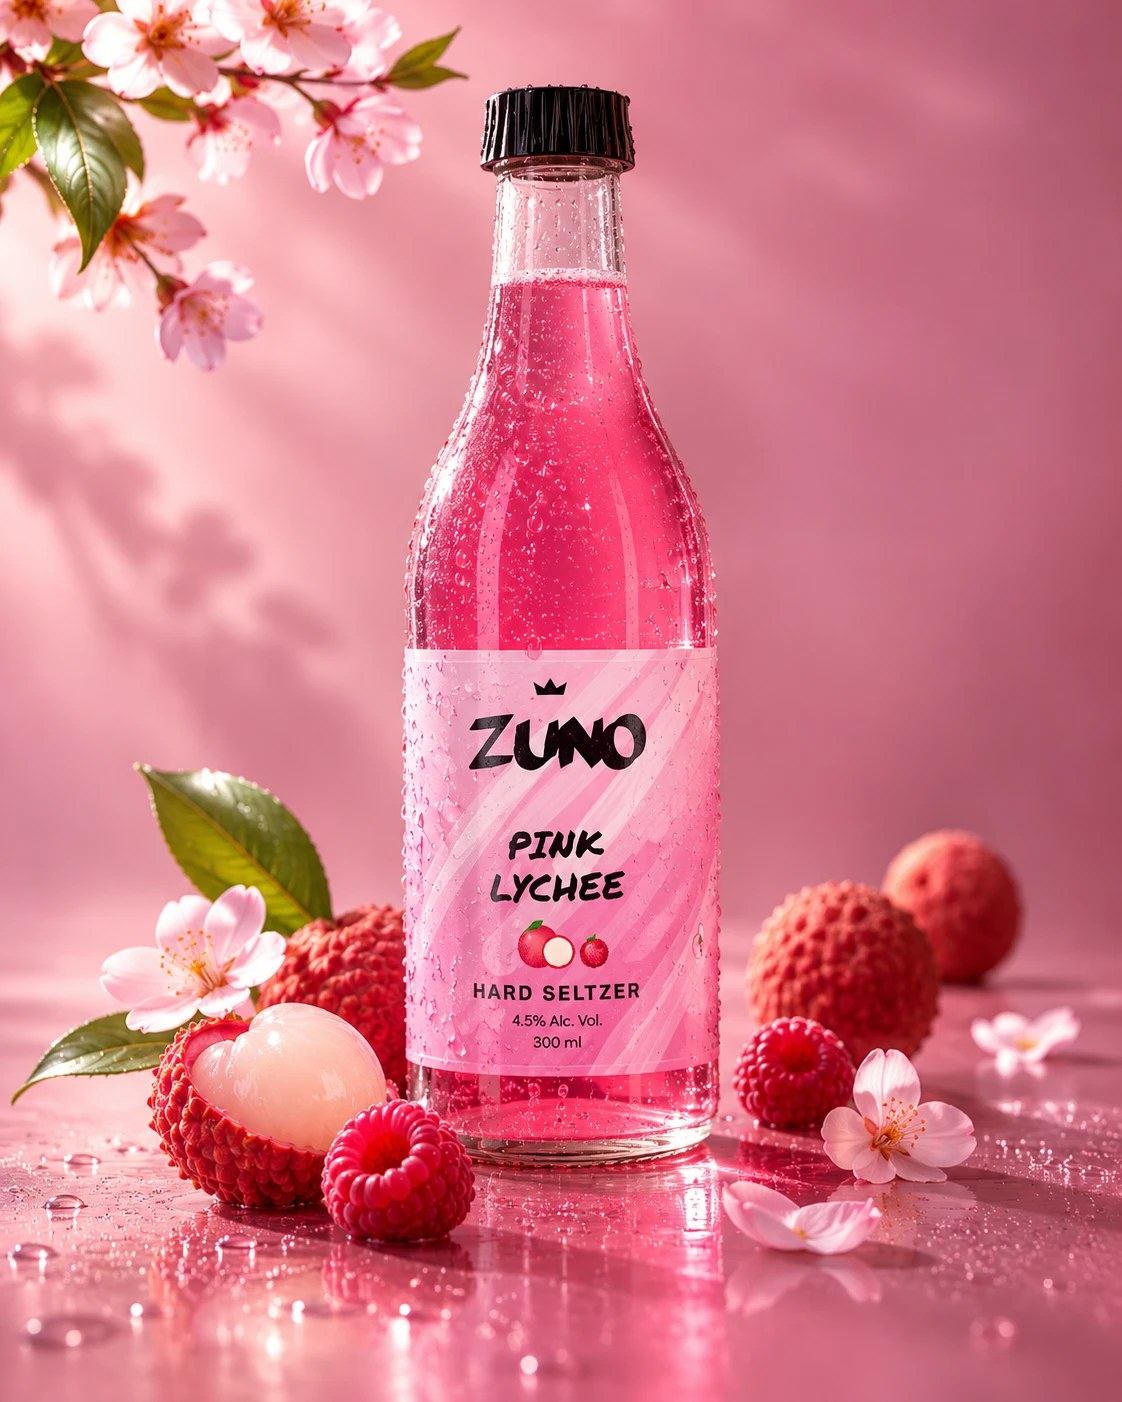
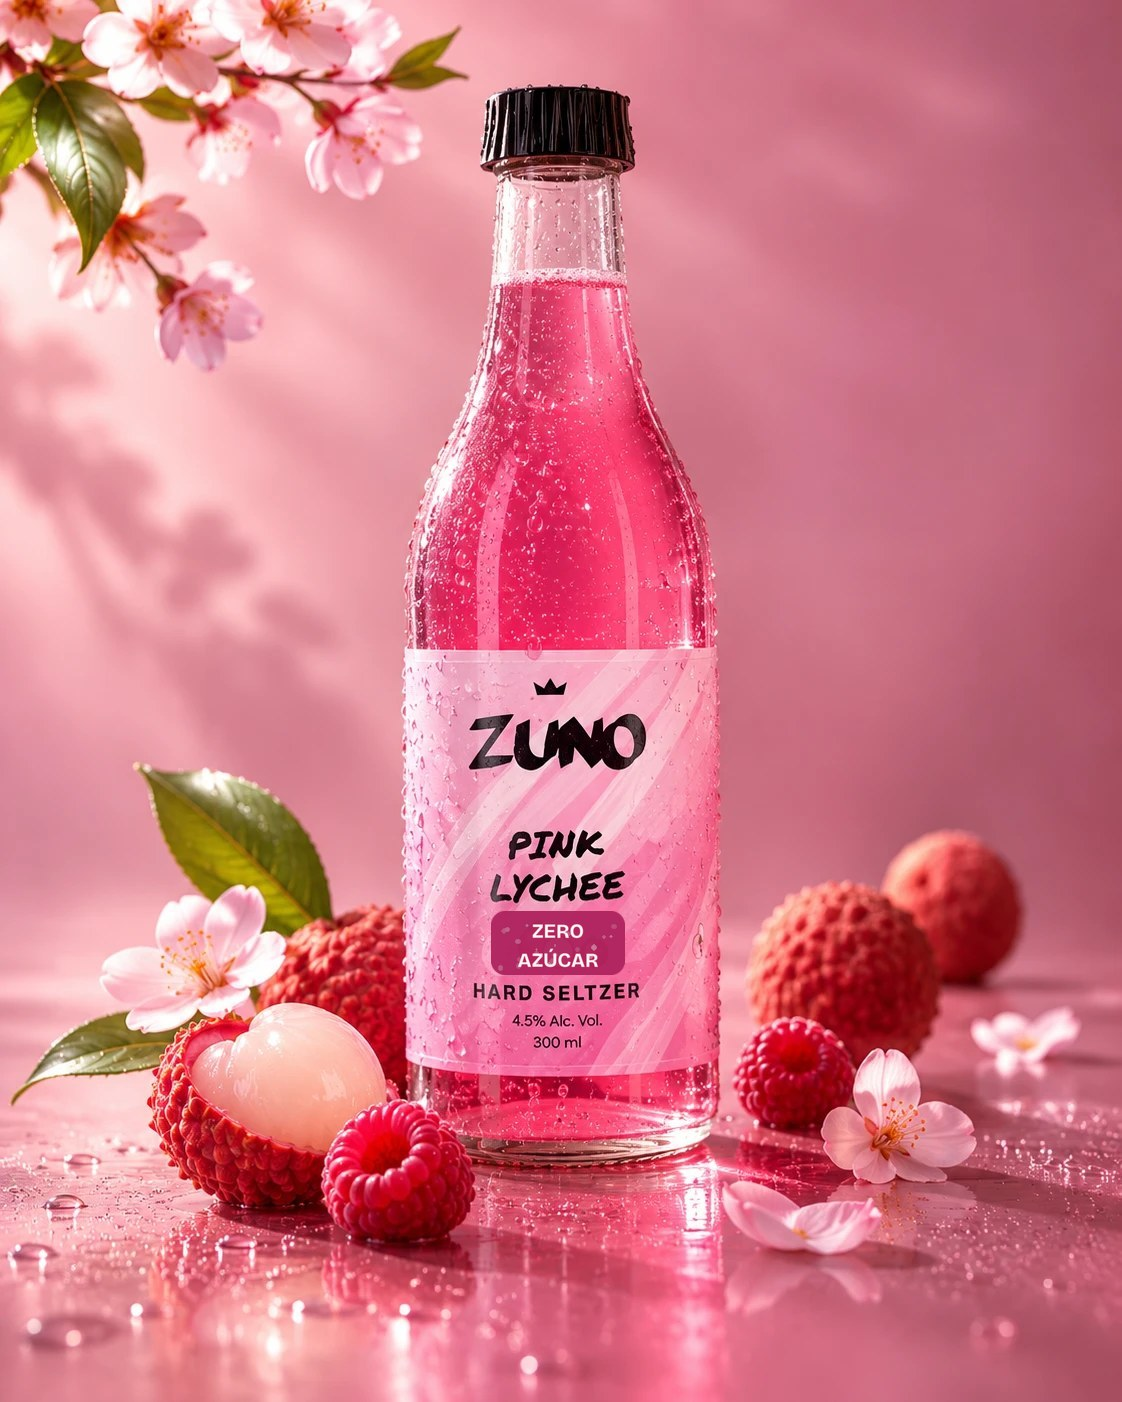
Zero Azúcar across the brand; lineup photo in Our Story
- Our Story shows the four-bottle lineup wide under the title, with the
  pillars (now including Zero azúcar) beside the manifesto
- Zero azúcar in hero meta, marquee, Our Drink copy/specs (0 g) and
  pills, Flavors info line, metadata, and as a badge on the 3D label
- Moment photos get the same ZERO AZÚCAR badge on their labels

Claude-Session: https://claude.ai/code/session_01PLNpsZBPhMCfKZLcoXZjka

Changed region(s): [[0.4367, 0.6441, 0.5615, 0.7054]]

diff --git a/src/components/sections/Story.tsx b/src/components/sections/Story.tsx
@@ -14,6 +14,7 @@ const PILLARS = [
   { n: "01", title: "Diseño", text: "Cada detalle, de la tapa a la etiqueta, está pensado para destacar." },
   { n: "02", title: "Personalidad", text: "Juvenil, atrevida y con identidad propia. Sin pedir permiso." },
   { n: "03", title: "Sabor", text: "Fruta intensa, burbuja fina y un final limpio que invita a la siguiente." },
+  { n: "04", title: "Zero azúcar", text: "Todo el sabor de la fruta, sin azúcar añadida. Ligera de principio a fin." },
 ];
 
 export function Story() {
@@ -38,8 +39,8 @@ export function Story() {
       );
       gsap.fromTo(
         el.querySelector("[data-story-img]"),
-        { yPercent: -10 },
-        { yPercent: 10, ease: "none", scrollTrigger: { trigger: el, start: "top bottom", end: "bottom top", scrub: true } },
+        { yPercent: -5 },
+        { yPercent: 5, ease: "none", scrollTrigger: { trigger: el, start: "top bottom", end: "bottom top", scrub: true } },
       );
     });
     return () => mm.revert();
@@ -73,25 +74,29 @@ export function Story() {
           ))}
         </h2>
 
-        <div className="mt-16 grid grid-cols-1 gap-12 md:mt-24 md:grid-cols-12 md:gap-8">
-          <div className="relative md:col-span-5">
-            <div className="relative aspect-square overflow-hidden rounded-[2rem] bg-blush">
-              <div data-story-img className="absolute inset-[-12%]">
-                <Image
-                  src="/experience/photo-story.jpg"
-                  alt="Botellas ZUNO Mango Passion y Achachairú Citrus con fruta fresca y salpicaduras"
-                  fill
-                  sizes="(max-width: 768px) 100vw, 40vw"
-                  className="object-cover"
-                />
-              </div>
+        {/* the full lineup, wide, right under the title */}
+        <div className="relative mt-12 md:mt-16">
+          <div className="relative aspect-[4/3] overflow-hidden rounded-[2rem] bg-blush sm:aspect-[1671/941]">
+            <div data-story-img className="absolute inset-x-0 -inset-y-[8%]">
+              <Image
+                src="/experience/story-lineup.jpg"
+                alt="Las cuatro botellas ZUNO, Zero Azúcar, sobre hielo con lychee, mango, maracuyá, lima, moras y arándanos"
+                fill
+                sizes="(max-width: 1480px) 100vw, 1400px"
+                className="object-cover"
+              />
             </div>
-            <p className="font-hand absolute -right-2 -bottom-6 rotate-[-6deg] rounded-full bg-ink px-5 py-3 text-xl text-cream md:-right-8 md:text-2xl">
-              Drink different.
-            </p>
           </div>
+          <p className="font-hand absolute -bottom-6 left-6 rotate-[-6deg] rounded-full bg-ink px-5 py-3 text-xl text-cream md:left-10 md:text-2xl">
+            Drink different.
+          </p>
+          <span className="display absolute top-5 right-5 rounded-full bg-cream px-4 py-2 text-lg text-ink shadow-lg md:top-8 md:right-8 md:text-2xl">
+            Zero azúcar
+          </span>
+        </div>
 
-          <div className="flex flex-col justify-center md:col-span-6 md:col-start-7">
+        <div className="mt-20 grid grid-cols-1 gap-12 md:mt-24 md:grid-cols-12 md:gap-8">
+          <div className="flex flex-col justify-center md:col-span-7">
             <p data-reveal className="font-editorial text-[2rem] leading-[1.18] tracking-[-0.01em] md:text-[2.75rem] md:leading-[1.14]">
               {/* the brand mark itself opens the sentence, crown sitting on the Z */}
               <ZunoLogo
@@ -103,7 +108,8 @@ export function Story() {
               interpretación de las bebidas frutales, donde el diseño, la personalidad y el sabor construyen una
               experiencia propia.
             </p>
-            <ul className="mt-14 grid grid-cols-1 gap-8 sm:grid-cols-3">
+          </div>
+          <ul className="grid grid-cols-1 gap-8 sm:grid-cols-2 md:col-span-5 md:col-start-8 md:self-center">
               {PILLARS.map((p, i) => (
                 <li key={p.n} data-reveal data-delay={i * 0.08} className="border-t border-ink/15 pt-5">
                   <span className="eyebrow text-hot">{p.n}</span>
@@ -111,8 +117,7 @@ export function Story() {
                   <p className="mt-2 text-sm leading-relaxed text-ink/65">{p.text}</p>
                 </li>
               ))}
-            </ul>
-          </div>
+          </ul>
         </div>
       </div>
     </section>

diff --git a/src/components/three/textures.ts b/src/components/three/textures.ts
@@ -302,18 +302,42 @@ export function createLabelTexture(flavor: Flavor, fonts: CanvasFonts) {
 
   // fruits
   const [f1, f2] = flavor.fruits;
-  fruitIcon(ctx, f1, cx - H * 0.04, H * 0.69, H * 0.05);
-  fruitIcon(ctx, f2, cx + H * 0.09, H * 0.705, H * 0.034);
+  fruitIcon(ctx, f1, cx - H * 0.04, H * 0.645, H * 0.045);
+  fruitIcon(ctx, f2, cx + H * 0.085, H * 0.658, H * 0.031);
 
   // product info
   ctx.fillStyle = L.ink;
-  ctx.font = `800 ${H * 0.052}px ${fonts.display}`;
+  ctx.font = `800 ${H * 0.05}px ${fonts.display}`;
   withSpacing(ctx, H * 0.006);
-  ctx.fillText("HARD SELTZER", cx, H * 0.8);
+  ctx.fillText("HARD SELTZER", cx, H * 0.735);
   withSpacing(ctx, 0);
-  ctx.font = `500 ${H * 0.036}px ${fonts.display}`;
-  ctx.fillText("4.5% Alc. Vol.", cx, H * 0.862);
-  ctx.fillText("300 ml", cx, H * 0.912);
+
+  // "ZERO AZÚCAR" badge: rounded pill in a deep shade of the label colour
+  {
+    const pw = H * 0.24;
+    const ph = H * 0.1;
+    const px = cx - pw / 2;
+    const py = H * 0.775;
+    const pill =
+      flavor.ink === "light"
+        ? new THREE.Color(L.top).lerp(new THREE.Color("#ffffff"), 0.15)
+        : new THREE.Color(flavor.accent).multiplyScalar(0.58);
+    ctx.fillStyle = `#${pill.getHexString()}`;
+    ctx.beginPath();
+    ctx.roundRect(px, py, pw, ph, ph * 0.28);
+    ctx.fill();
+    ctx.fillStyle = "#FFF8F2";
+    ctx.font = `800 ${H * 0.036}px ${fonts.display}`;
+    withSpacing(ctx, H * 0.002);
+    ctx.fillText("ZERO", cx, py + ph * 0.3);
+    ctx.fillText("AZÚCAR", cx, py + ph * 0.72);
+    withSpacing(ctx, 0);
+  }
+
+  ctx.fillStyle = L.ink;
+  ctx.font = `500 ${H * 0.032}px ${fonts.display}`;
+  ctx.fillText("4.5% Alc. Vol.", cx, H * 0.91);
+  ctx.fillText("300 ml", cx, H * 0.948);
 
   // left side panel — slogan (vertical)
   ctx.save();
@@ -337,7 +361,7 @@ export function createLabelTexture(flavor: Flavor, fonts: CanvasFonts) {
   ctx.font = `500 ${H * 0.024}px ${fonts.display}`;
   const lines = [
     "Bebida alcohólica gasificada",
-    "sabor a fruta.",
+    "sabor a fruta. Zero azúcar.",
     "Contenido neto: 300 ml",
     "Graduación objetivo: 4.5% Alc. Vol.",
     "",

diff --git a/src/components/sections/OurDrink.tsx b/src/components/sections/OurDrink.tsx
@@ -13,6 +13,7 @@ gsap.registerPlugin(ScrollTrigger);
 const SPECS = [
   { value: 300, decimals: 0, unit: "ml", label: "Botella de vidrio", note: "El formato justo: se sirve frío y se disfruta de principio a fin." },
   { value: 4.5, decimals: 1, unit: "%", label: "Alc. Vol.*", note: "Graduación objetivo, ligera y equilibrada." },
+  { value: 0, decimals: 0, unit: "g", label: "Azúcar", note: "Zero azúcar: todo el sabor de la fruta, sin azúcar añadida." },
   { value: 4, decimals: 0, unit: "", label: "Sabores", note: "Cuatro universos frutales, una misma actitud." },
 ];
 
@@ -90,7 +91,7 @@ export function OurDrink() {
               </span>
             </h2>
             <p data-reveal className="mt-8 max-w-sm text-lg leading-relaxed text-ink/75">
-              ZUNO es un hard seltzer frutal: agua con gas, un toque de alcohol y fruta con carácter, en una botella de
+              ZUNO es un hard seltzer frutal y zero azúcar: agua con gas, un toque de alcohol y fruta con carácter, en una botella de
               vidrio de 300 ml pensada para compartir buenos momentos.
             </p>
             <div data-reveal className="mt-10 flex max-w-sm items-start gap-4 border-t border-ink/15 pt-6">
@@ -129,7 +130,10 @@ export function OurDrink() {
               </div>
             ))}
             <div data-reveal className="pt-6">
-              <span className="display inline-block rounded-full bg-ink px-4 py-2 text-lg text-cream">Hard Seltzer</span>
+              <div className="flex flex-wrap gap-2">
+                <span className="display inline-block rounded-full bg-ink px-4 py-2 text-lg text-cream">Hard Seltzer</span>
+                <span className="display inline-block rounded-full bg-hot px-4 py-2 text-lg text-cream">Zero azúcar</span>
+              </div>
               <p className="mt-4 text-xs leading-relaxed text-ink/50">
                 *4.5% Alc. Vol. es la graduación objetivo de formulación, sujeta a validación final.
               </p>

diff --git a/src/app/layout.tsx b/src/app/layout.tsx
@@ -32,7 +32,7 @@ export const metadata: Metadata = {
     template: "%s · ZUNO",
   },
   description:
-    "ZUNO es un hard seltzer frutal en botella de vidrio de 300 ml. Pink Lychee, Mango Passion, Achachairú Citrus y Berry Mood. Una vuelta más de sabor. Solo para mayores de 18 años.",
+    "ZUNO es un hard seltzer frutal zero azúcar, en botella de vidrio de 300 ml. Pink Lychee, Mango Passion, Achachairú Citrus y Berry Mood. Una vuelta más de sabor. Solo para mayores de 18 años.",
   openGraph: {
     title: "ZUNO — Drink Different.",
     description: "Hard Seltzer frutal. Una vuelta más de sabor.",

diff --git a/src/components/sections/Flavors.tsx b/src/components/sections/Flavors.tsx
@@ -168,7 +168,7 @@ export function Flavors() {
                       </li>
                     ))}
                   </ul>
-                  <p className="mt-6 text-xs tracking-[0.16em] uppercase opacity-60">Hard Seltzer · 300 ml · 4.5% Alc. Vol.*</p>
+                  <p className="mt-6 text-xs tracking-[0.16em] uppercase opacity-60">Hard Seltzer · Zero azúcar · 300 ml · 4.5% Alc. Vol.*</p>
                 </motion.div>
               </motion.div>
             </AnimatePresence>

diff --git a/src/components/sections/Hero.tsx b/src/components/sections/Hero.tsx
@@ -87,6 +87,7 @@ export function Hero() {
             <p data-hero-fade className="eyebrow text-cream/80">
               Hard Seltzer <span className="mx-3 text-cream/40">/</span> 300 ml
               <span className="mx-3 text-cream/40">/</span> 4.5% Alc. Vol.*
+              <span className="mx-3 text-cream/40">/</span> Zero azúcar
             </p>
             <p data-hero-fade className="eyebrow text-cream/80">
               4 sabores · Edición 2026

diff --git a/src/components/layout/Marquee.tsx b/src/components/layout/Marquee.tsx
@@ -1,6 +1,6 @@
 import { Crown } from "@/components/brand/ZunoLogo";
 
-const ITEMS = ["DRINK DIFFERENT", "Una vuelta más de sabor", "HARD SELTZER", "300 ML", "4.5% ALC. VOL.*"];
+const ITEMS = ["DRINK DIFFERENT", "Una vuelta más de sabor", "HARD SELTZER", "Zero azúcar", "300 ML", "4.5% ALC. VOL.*"];
 
 export function Marquee({ className = "" }: { className?: string }) {
   const row = (
